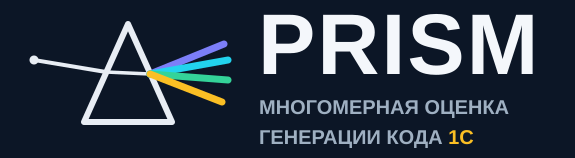
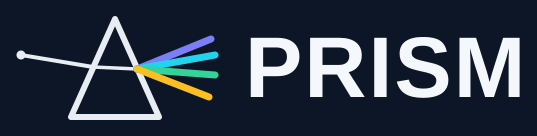
style(web): refresh header branding
Логотип в шапке без подписи: только знак и PRISM. Название «prism» над интро
переливается спектром S·M·O·P, как в CLI. Кнопка «Star» переименована в
«GitHub», звезда периодически поворачивается. Путь «genlab-1c / prism» в шапке
ведёт на главную.

diff --git a/web/src/styles/brand.css b/web/src/styles/brand.css
@@ -1,0 +1,43 @@
+/* ============================================================
+   PRISM — фирменное слово «prism» в шапке лидерборда.
+   Тот же спектр S·M·O·P, что в CLI-интро (harness/ui.py, print_logo) и в токене --prism:
+   цвета берутся из осей, поэтому обе темы подхватываются сами. Градиент замкнут
+   (S…P…S) и шириной в два слова, а сдвиг ровно на ширину картинки — цикл без шва.
+   ============================================================ */
+.brand-wordmark {
+  background-image: linear-gradient(90deg, var(--axis-s), var(--axis-m), var(--axis-o), var(--axis-p), var(--axis-s));
+  background-size: 200% 100%;
+  -webkit-background-clip: text; background-clip: text;
+  color: transparent; -webkit-text-fill-color: transparent;
+  animation: brand-flow 6s linear infinite;
+}
+@keyframes brand-flow {
+  from { background-position: 200% 50%; }
+  to   { background-position: 0% 50%; }
+}
+@media (prefers-reduced-motion: reduce) {
+  .brand-wordmark { animation: none; background-position: 0% 50%; }
+}
+
+/* ---- звезда на кнопке GitHub в шапке ----
+   Полный оборот вокруг вертикальной оси, как монета: раз в 8 секунд и сразу при
+   наведении. Остальное время звезда стоит. Перспектива даёт объём, без неё поворот
+   выглядел бы как сжатие в полоску. */
+.gh-star { display: inline-flex; animation: gh-star-turn 8s var(--ease) infinite; }
+.gh-button:hover .gh-star { animation: gh-star-turn-once 0.7s var(--ease-out) both; }
+@keyframes gh-star-turn {
+  0%, 89% { transform: perspective(60px) rotateY(0deg); }
+  100%    { transform: perspective(60px) rotateY(360deg); }
+}
+@keyframes gh-star-turn-once {
+  from { transform: perspective(60px) rotateY(0deg); }
+  to   { transform: perspective(60px) rotateY(360deg); }
+}
+@media (prefers-reduced-motion: reduce) {
+  .gh-star, .gh-button:hover .gh-star { animation: none; }
+}
+
+/* ---- путь «genlab-1c / prism» в шапке: ссылка на главную (лидерборд) ---- */
+.crumb-link { text-decoration: none; }
+.crumb-link span { transition: color var(--dur-fast) var(--ease); }
+.crumb-link:hover span { color: var(--brand) !important; }

diff --git a/web/src/components/SiteHeader.jsx b/web/src/components/SiteHeader.jsx
@@ -61,7 +61,7 @@ function StarButton({ repo }) {
     return () => { alive = false; };
   }, [slug]);
   return (
-    <a href={url} target="_blank" rel="noreferrer"
+    <a href={url} target="_blank" rel="noreferrer" className="gh-button"
       onMouseEnter={() => setHover(true)} onMouseLeave={() => setHover(false)}
       style={{ display: 'inline-flex', alignItems: 'stretch', borderRadius: 'var(--radius-sm)', overflow: 'hidden', border: '1px solid var(--border-strong)', textDecoration: 'none' }}>
       <span style={{
@@ -69,7 +69,7 @@ function StarButton({ repo }) {
         background: hover ? 'var(--navy-600)' : 'var(--surface-raised)', color: 'var(--ink-100)',
         fontFamily: 'var(--font-mono)', fontSize: 12.5, fontWeight: 500, transition: 'background var(--dur-fast) var(--ease)',
       }}>
-        <span style={{ color: 'var(--one-c)' }}><Icon name="star" size={14} /></span><span className="hide-mobile">Star</span>
+        <span className="gh-star" style={{ color: 'var(--one-c)' }}><Icon name="star" size={14} /></span><span className="hide-mobile">GitHub</span>
       </span>
       {stars != null && (
         <span style={{
@@ -107,9 +107,9 @@ export default function SiteHeader({ active = 'leaderboard', version = '', repo 
             <img src={logo} alt="PRISM" style={{ height: 26, width: 'auto', display: 'block' }} />
           </a>
           <span className="hide-mobile" style={{ color: 'var(--line)', fontSize: 18 }}>/</span>
-          <span className="hide-mobile" style={{ fontFamily: 'var(--font-mono)', fontSize: 13, color: 'var(--ink-400)' }}>
+          <a href={BASE} className="hide-mobile crumb-link" style={{ fontFamily: 'var(--font-mono)', fontSize: 13, color: 'var(--ink-400)' }}>
             <span style={{ color: 'var(--ink-300)' }}>genlab-1c</span><span> / </span><span style={{ color: 'var(--ink-200)' }}>prism</span>
-          </span>
+          </a>
         </div>
         <nav className="nav-bar site-header-nav">
           {NAV.map((n) => <NavLink key={n.key} label={n.label} href={n.href} active={active === n.key} />)}

diff --git a/web/src/components/screens/Leaderboard.jsx b/web/src/components/screens/Leaderboard.jsx
@@ -859,7 +859,7 @@ export function LeaderboardScreen({ navigate = () => {}, models = [], meta = {} 
     <main style={{ maxWidth: 'var(--container)', margin: '0 auto', padding: '0 24px' }}>
       <section style={{ paddingTop: isMobile ? 22 : 40, paddingBottom: isMobile ? 14 : 24 }}>
         <h1 style={{ margin: 0, fontFamily: 'var(--font-mono)', fontSize: isMobile ? 18 : 22, fontWeight: 600, color: 'var(--ink-100)', letterSpacing: '-0.01em', lineHeight: 1.25 }}>
-          prism <span style={{ color: 'var(--ink-400)', fontWeight: 400 }}>— многомерная оценка генерации кода 1С</span>
+          <span className="brand-wordmark">prism</span> <span style={{ color: 'var(--ink-400)', fontWeight: 400 }}>— многомерная оценка генерации кода 1С</span>
         </h1>
         <p style={{ margin: isMobile ? '9px 0 0' : '12px 0 0', fontSize: isMobile ? 13.5 : 14.5, color: 'var(--ink-300)', maxWidth: 680, lineHeight: isMobile ? 1.5 : 1.6, textAlign: isMobile ? 'justify' : 'left' }}>
           Открытый бенчмарк качества генерации кода 1С. Код, который написала модель, мы <span style={{ color: 'var(--ink-100)' }}>по-настоящему исполняем</span> — компилятор, скрытые и нагрузочные тесты, живая база&nbsp;1С — и оцениваем по четырём осям&nbsp;<span style={{ whiteSpace: 'nowrap' }}><span style={{ color: 'var(--axis-s)', fontFamily: 'var(--font-mono)', fontWeight: 600 }}>S</span> <span style={{ color: 'var(--axis-m)', fontFamily: 'var(--font-mono)', fontWeight: 600 }}>M</span> <span style={{ color: 'var(--axis-o)', fontFamily: 'var(--font-mono)', fontWeight: 600 }}>O</span> <span style={{ color: 'var(--axis-p)', fontFamily: 'var(--font-mono)', fontWeight: 600 }}>P</span></span> (синтаксис · семантика · оптимальность · платформа), а не по принципу «прошло&nbsp;/ не&nbsp;прошло».

diff --git a/web/src/styles/styles.css b/web/src/styles/styles.css
@@ -8,6 +8,7 @@
 @import url('tokens/spacing.css');
 @import url('tokens/themes.css');
 @import url('tokens/base.css');
+@import url('brand.css');
 @import url('whatsnew.css');
 @import url('heatmap.css');
 @import url('tasks.css');
